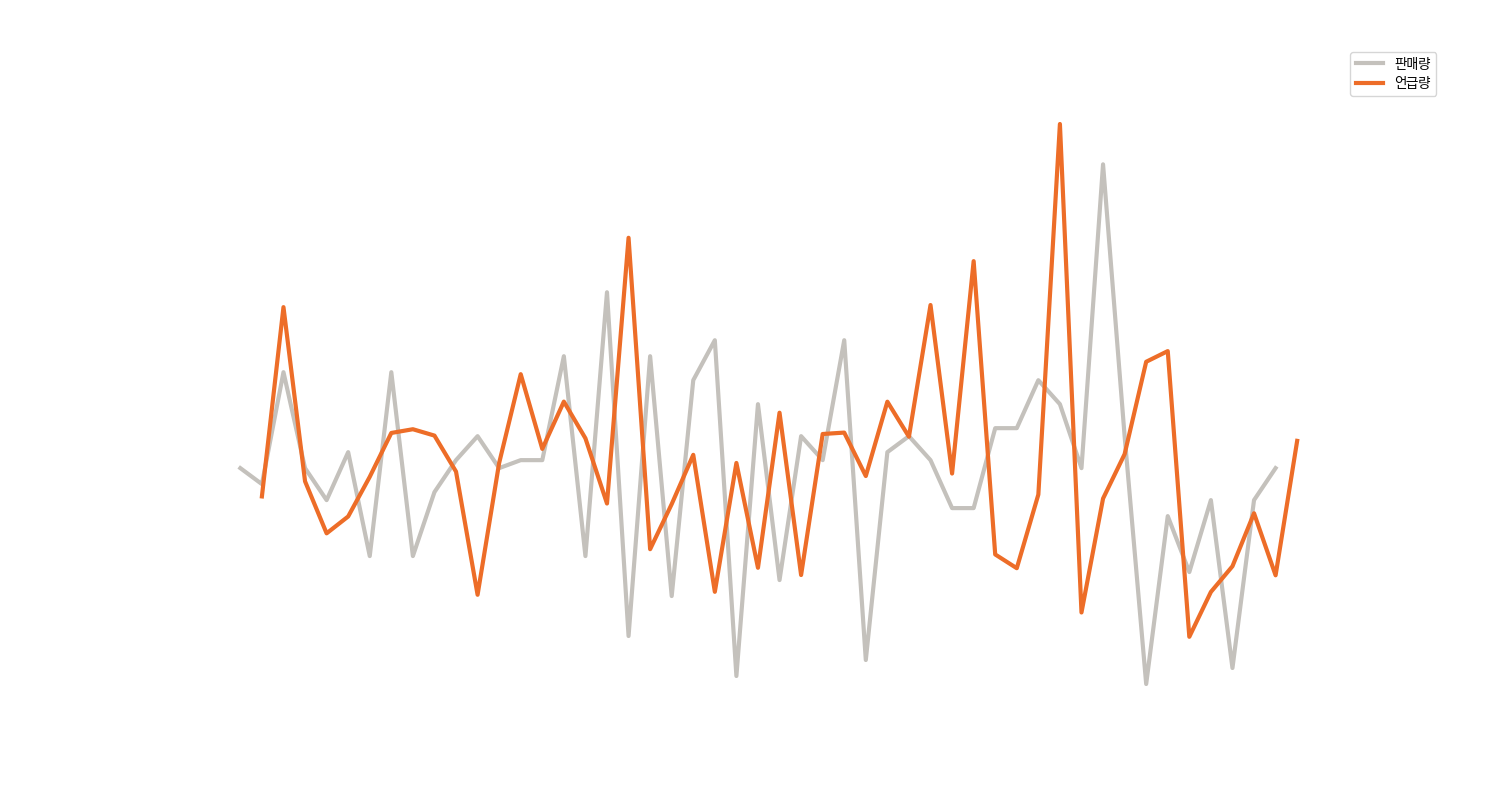
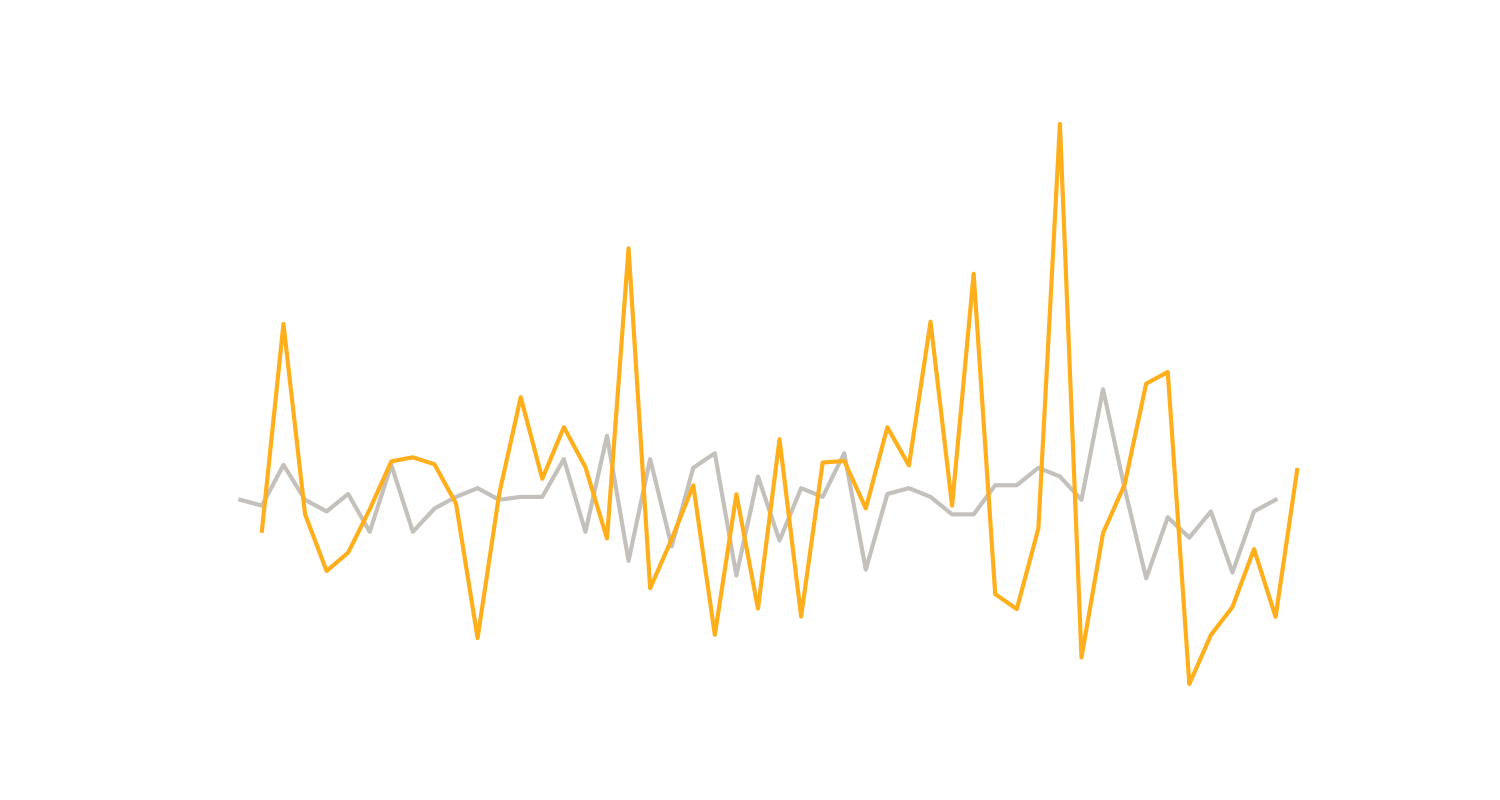
File: Change deferencing graph files
차분 그래프 색상 변경

Changed region(s): [[0.1533, 0.1562, 0.8893, 0.8438], [0.8893, 0.0625, 0.9507, 0.125]]

diff --git a/src/components/Analysis/Analysis.jsx b/src/components/Analysis/Analysis.jsx
@@ -115,7 +115,7 @@ const Analysis = ({ category, keyword, setPageOffset }, ref) => {
             title="클릭 시 이미지가 확대됩니다."
             onClick={() => setSelectedGraph('분석 그래프')}
           >
-            <GraphTitle>분석 그래프 <SubTitle>- 설명</SubTitle></GraphTitle>
+            <GraphTitle>분석 그래프</GraphTitle>
             {folder &&
              <Graph src={require(`../../assets/images/differencing/${folder}/${keyword}.png`)}/>}
           </Background>
